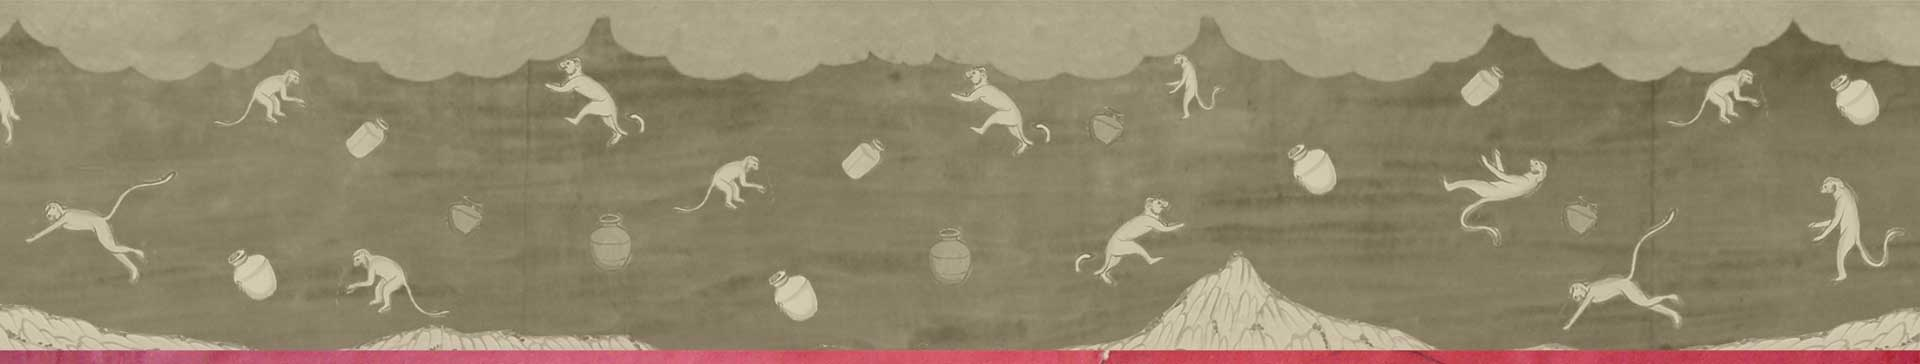
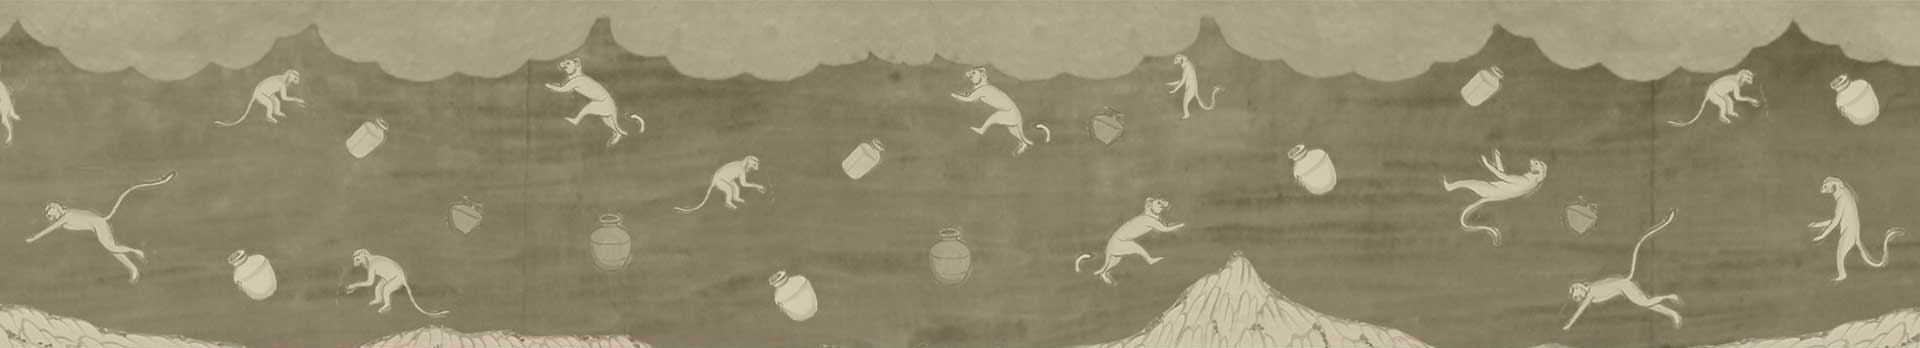
Minor fixes as per PPT

diff --git a/src/js/main.js b/src/js/main.js
@@ -1,31 +1,34 @@
 (function ($) {
   $(function () {
-    // pannellum.viewer('jhalra', {
-    //   type: 'multires',
-    //   multiRes: {
-    //     basePath: '/images/typology-of-water-bodies/360/multires/jhalra',
-    //     path: '/%l/%s%y_%x',
-    //     fallbackPath: '/fallback/%s',
-    //     extension: 'jpg',
-    //     tileResolution: 512,
-    //     maxLevel: 6,
-    //     cubeResolution: 8432,
-    //   },
-    // });
+    let href = window.location.href;
+    let referrer = document.referrer;
+
+    if (href.indexOf('home') !== -1 && referrer.indexOf('stories') !== -1) {
+      window.onload = function () {
+        window.scroll(0, $('#jarokhas').offset().top);
+      };
+    }
+
+    $(window).resize(function () {
+      $('.threesixty-viewer').each(function () {
+        let $el = $(this);
+        $el.height($el.width() * 0.56);
+      });
+    });
 
     $('.threesixty-viewer').each(function () {
       let $el = $(this);
+      $el.height($el.width() * 0.56);
       let id = $el.attr('id');
       let story = $el.data('story');
       let type = $el.data('type');
-
-      console.log(id, story, type);
 
       let params = {
         autoLoad: true,
         showControls: false,
         hotSpotDebug: true,
         preview: '/images/paper.jpg',
+        mouseZoom: false,
       };
 
       if (type == 'multires') {

diff --git a/src/scss/partials/_base.scss b/src/scss/partials/_base.scss
@@ -9,9 +9,18 @@
 
 footer {
   background-image: url('/images/footer-bg.jpg');
-  background-repeat: repeat-x;
-  // background-size: auto 100%;
   color: $body-font-color;
+  position: relative;
+
+  &:after {
+    content: '';
+    width: 100%;
+    height: 10px;
+    background: url('/images/redline.png');
+    position: absolute;
+    top: 0;
+    left: 0;
+  }
 }
 
 .colophon {
@@ -81,19 +90,14 @@ footer {
 .lang {
   white-space: nowrap;
 
-  //   .story-header & {
-  //     position: absolute;
-  //     top: 40px;
-  //     right: 40px;
-  //     list-style: none;
-  //   }
-
   li {
     display: inline-block;
 
     a {
       &.active {
-        @extend .btn, .btn-dark, .text-white;
+        @extend .btn-sm, .btn-dark, .text-white;
+        padding-top: 4px;
+        padding-bottom: 4px;
       }
     }
   }

diff --git a/src/scss/partials/_story.scss b/src/scss/partials/_story.scss
@@ -1,7 +1,19 @@
 .header-bg {
+  position: relative;
   min-height: 300px;
   background-position: bottom;
-  background-size: auto 100%;
+  background-size: cover;
+
+  &:after {
+    content: '';
+    position: absolute;
+    height: 10px;
+    width: 100%;
+    bottom: 0;
+    left: 0;
+    background-image: url('/images/redline.png');
+    background-size: cover;
+  }
 
   @include media-breakpoint-down(sm) {
     min-height: 200px;
@@ -23,13 +35,13 @@
 
   .nav-img {
     position: absolute;
-    bottom: -403px;
+    bottom: -398px;
     right: 0;
     width: 200px;
     z-index: 2;
 
-    ul {
-      margin-top: 20px;
+    img {
+      width: 100%;
     }
 
     @include media-breakpoint-down(sm) {

diff --git a/src/scss/partials/_variables.scss b/src/scss/partials/_variables.scss
@@ -1,6 +1,15 @@
 $headings-font-family: Cinzel, serif;
 $font-family-base: 'Montserrat', sans-serif;
 $body-font-color: #5f362b;
+
+$container-max-widths: (
+  sm: 540px,
+  md: 720px,
+  lg: 960px,
+  xl: 1140px,
+  xxl: 1140px,
+);
+
 $theme-colors: (
   'dark': #5f362b,
 );

diff --git a/src/scss/partials/_threesixty.scss b/src/scss/partials/_threesixty.scss
@@ -1,3 +1,3 @@
 .threesixty-viewer {
-  min-height: 80vh;
+  // min-height: 80vh;
 }
